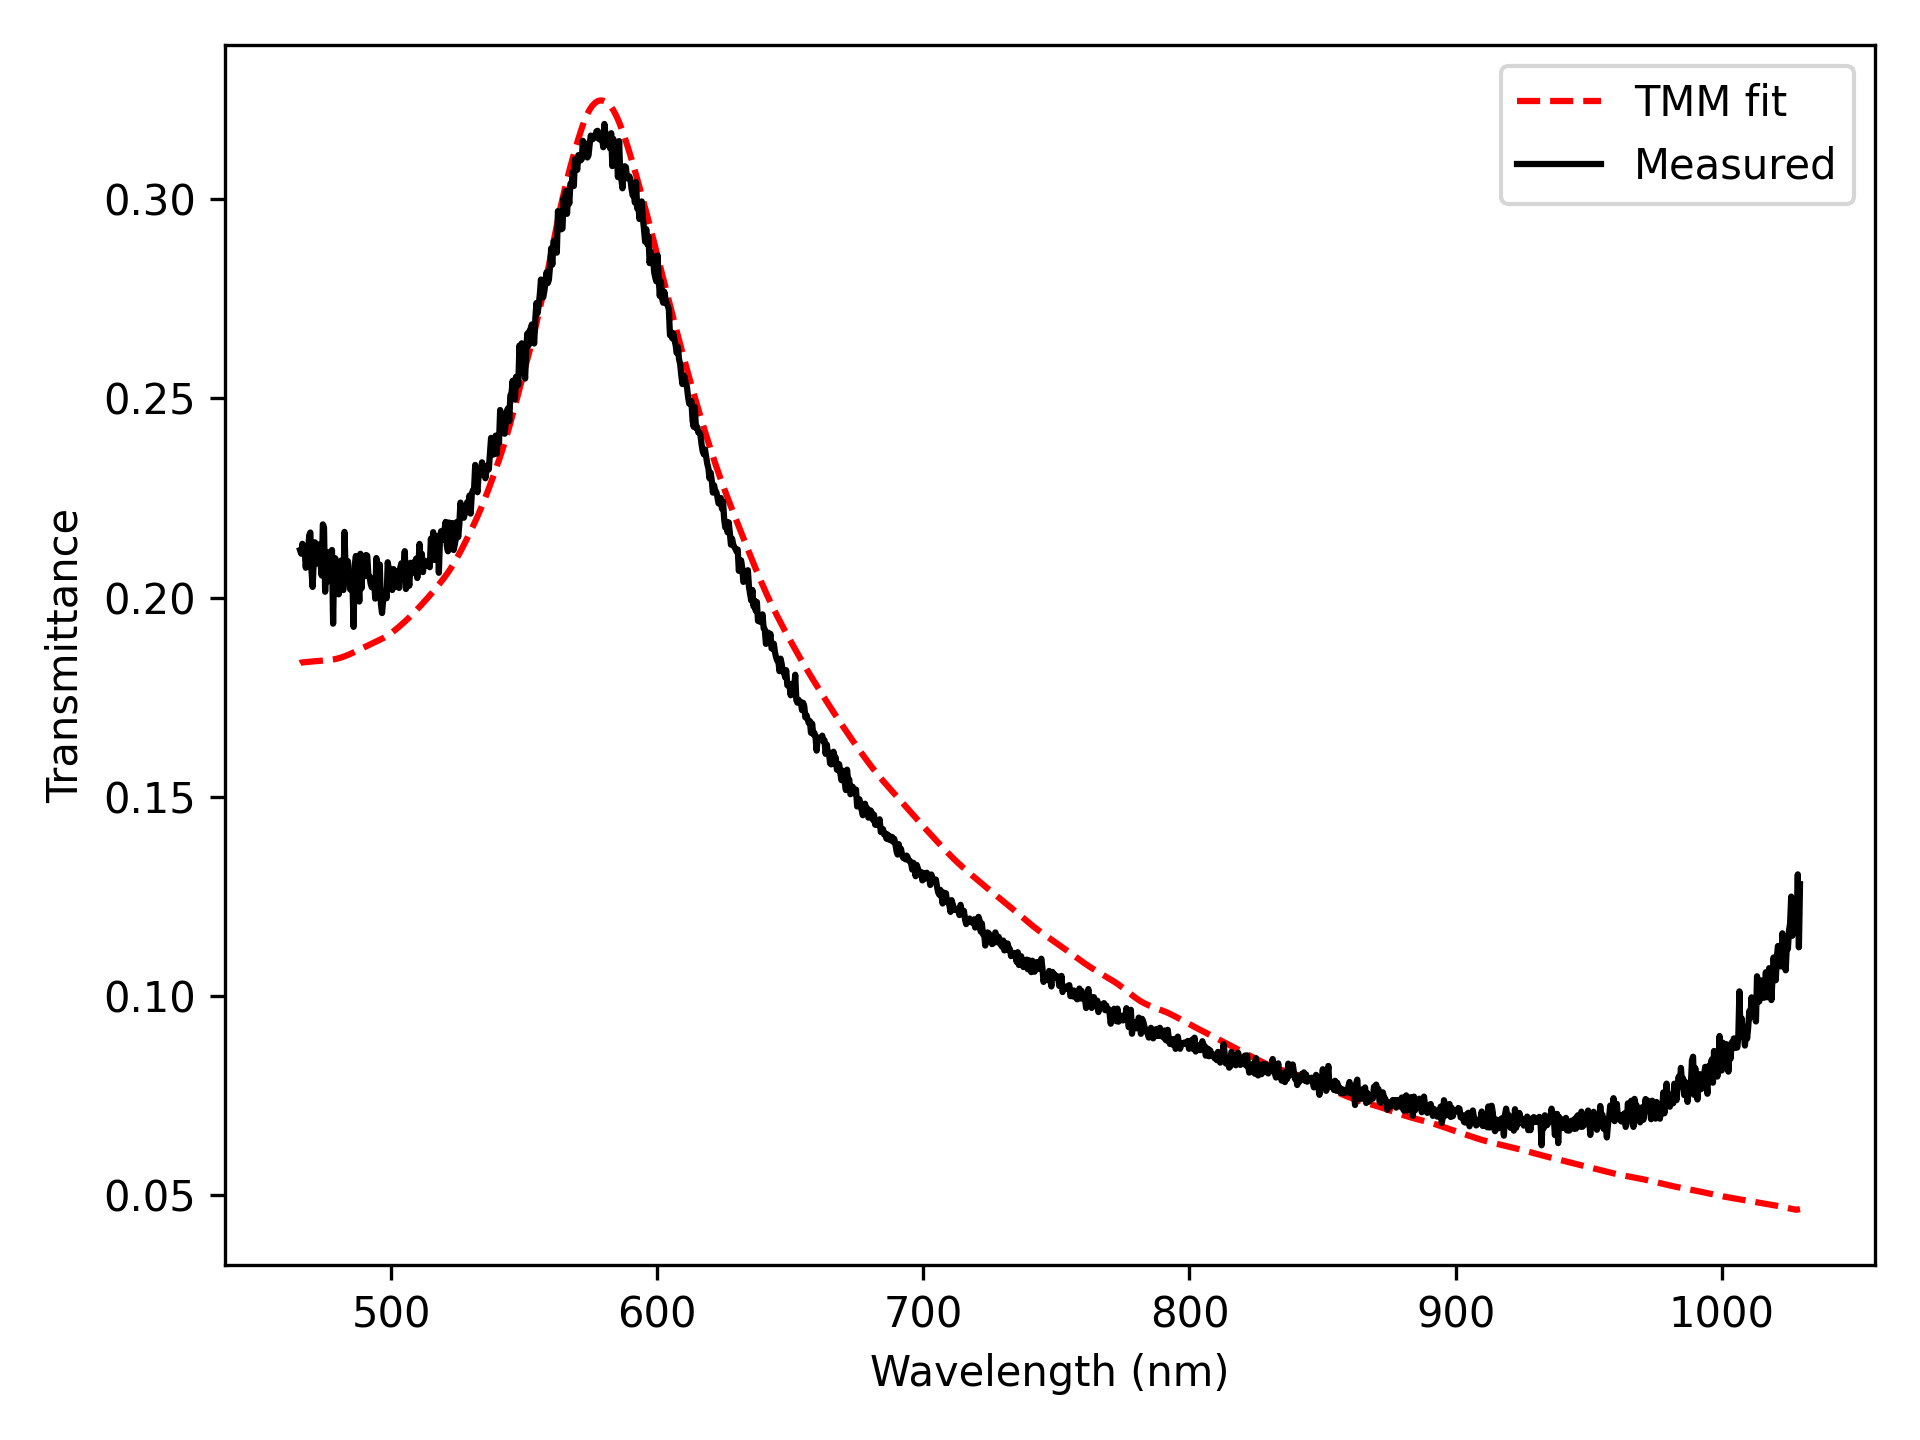
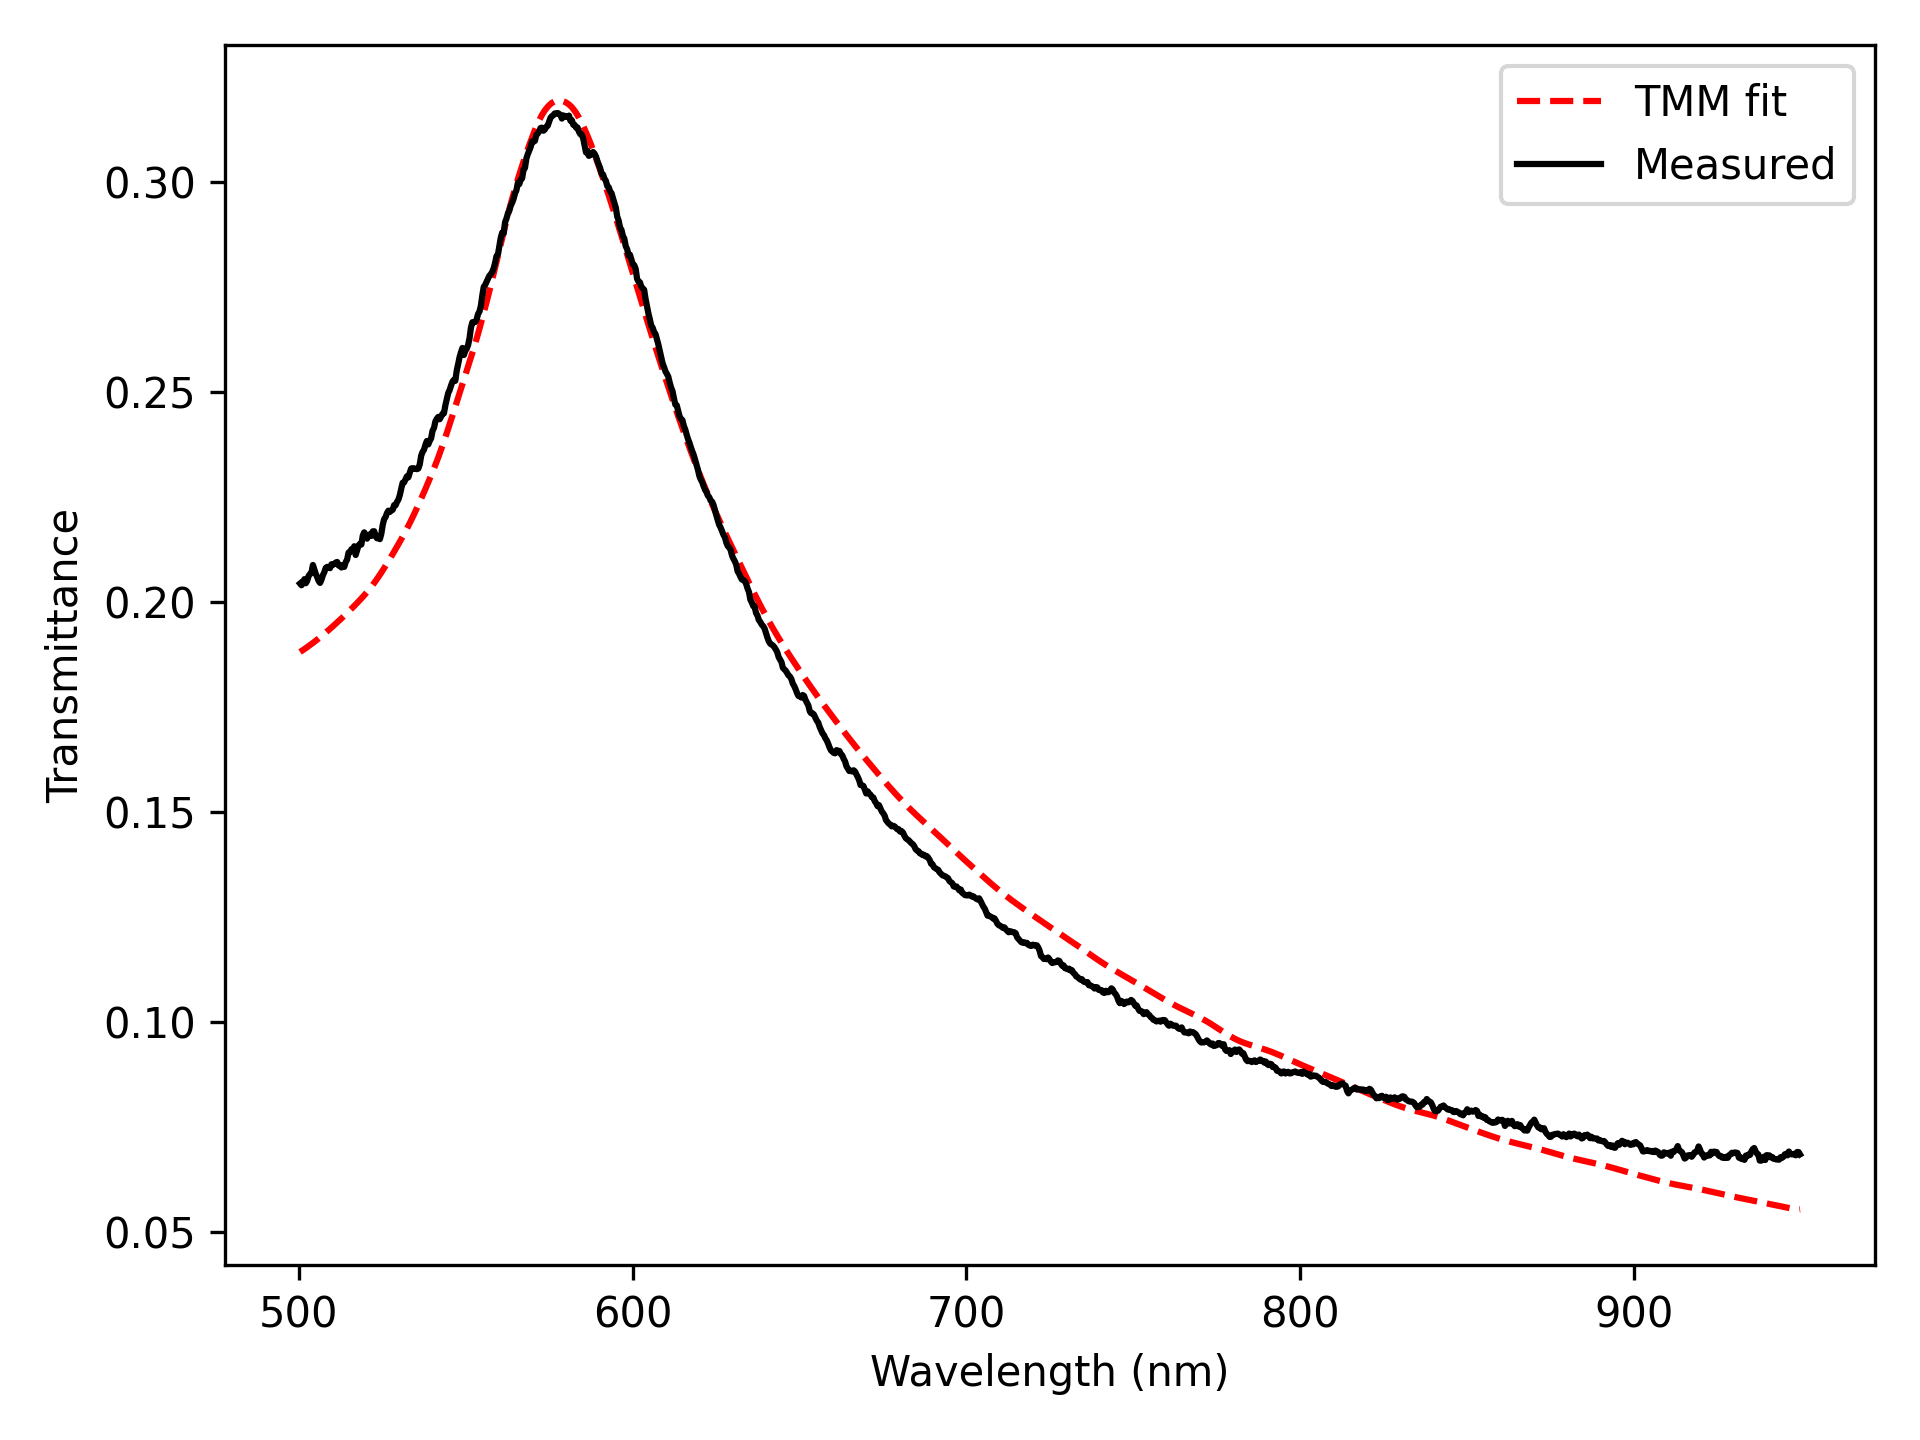
Implemented GPU Support, added smoothing and WL cutouts

diff --git a/Grin-TMM.py b/Grin-TMM.py
@@ -8,6 +8,15 @@ from winspec import SpeFile
 import tmm_fast.gym_multilayerthinfilm as mltf
 from tmm_fast import coh_tmm
 
+#%% ================== Functions =====================
+def moving_average_same(a, n=5):
+    if n <= 1:
+        return a
+    kernel = np.ones(n) / n
+    return np.convolve(a, kernel, mode="same")
+
+
+
 #%% ================= USER SETTINGS =================
 path = str(Path(__file__).parent)
 
@@ -25,8 +34,15 @@ Lamp_file = path + "/Substrate.SPE"
 init_thickness_nm = [22.0, 1.0, 1.0]
 spec_no = 69
 
-wl_min = 900
-wl_max = 400
+# Smoothing
+enable_smoothing = True
+smoothing_window = 5   # must be odd, e.g. 3,5,7
+
+# Wavelength cutout for optimization (nm)
+enable_wl_cut = True
+wl_opt_min = 500.0
+wl_opt_max = 950.0
+
 # Optimization
 n_steps = 300
 learning_rate = 0.5
@@ -34,7 +50,7 @@ learning_rate = 0.5
 # Angular averaging (brightfield, small NA)
 angle_min_deg = 0.0
 angle_max_deg = 1.0
-n_angles = 5
+n_angles = 1
 #===================================================
 
 
@@ -43,12 +59,39 @@ wl_nm = SpeFile(SPE_file).xaxis.astype(np.float64)
 df_intensities = SpeFile(SPE_file).data[:, :, 0]
 lamp_intensities = SpeFile(Lamp_file).data[0, :, 0]
 
+# select device to run on:
+if torch.cuda.is_available():
+    Computation_device = "cuda"
+else:
+    Computation_device = "cpu"
+
+
+# Optional Smoothing
+if enable_smoothing:
+    df_intensities[spec_no,:] = moving_average_same(df_intensities[spec_no,:],smoothing_window)
+    lamp_intensities = moving_average_same(lamp_intensities,smoothing_window)
+
+transmission_data = df_intensities[spec_no, :] / lamp_intensities
+
+#Optional wavelength cut
+if enable_wl_cut:
+    wl_mask = (wl_nm >= wl_opt_min) & (wl_nm <= wl_opt_max)
+    transmission_data = transmission_data[wl_mask]
+    wl_nm = wl_nm[wl_mask]
+
+
+#Create torch vectors
 target_T = torch.tensor(
-    df_intensities[spec_no, :] / lamp_intensities,
-    dtype=torch.float64
+    transmission_data,
+    dtype=torch.float64,
+    device=Computation_device
 )
 
-lambda_nm = torch.tensor(wl_nm, dtype=torch.float64)
+lambda_nm = torch.tensor(
+    wl_nm, 
+    dtype=torch.float64,
+    device=Computation_device
+)
 
 #%% Load dispersive refractive indices
 N_np = mltf.get_N(
@@ -68,24 +111,34 @@ n_stack = np.vstack([
     np.ones_like(wl_nm)
 ])
 
-N_torch = torch.tensor(n_stack, dtype=torch.complex128).unsqueeze(0)
+N_torch = torch.tensor(
+    n_stack, 
+    dtype=torch.complex128, 
+    device = Computation_device
+).unsqueeze(0)
 
 #%% Trainable thickness tensor (nm)
 d_init_nm = torch.tensor(
     [np.inf] + init_thickness_nm + [np.inf],
     dtype=torch.float64,
-    requires_grad=True
+    requires_grad=True,
+    device = Computation_device
 )
 T_torch = d_init_nm.unsqueeze(0)
 
 #%% Angles (radians)
 thetas = torch.deg2rad(
-    torch.linspace(angle_min_deg, angle_max_deg, n_angles, dtype=torch.float64)
+    torch.linspace(angle_min_deg, angle_max_deg, n_angles, dtype=torch.float64, device = Computation_device)
 )
 
 #%% Optimizer and loss
 optimizer = torch.optim.Adam([d_init_nm], lr=learning_rate)
 loss_fn = torch.nn.MSELoss()
+
+#%% Debugging:
+print("Thickness tensor device:", d_init_nm.device)
+print("N tensor device:", N_torch.device)
+print("Lambda device:", lambda_nm.device)
 
 #%% Optimization loop
 for step in range(n_steps):
@@ -98,7 +151,7 @@ for step in range(n_steps):
         T=T_torch,
         Theta=thetas,
         lambda_vacuum=lambda_nm,
-        device="cpu"
+        device=Computation_device
     )
 
     T_sim = result["T"][0].mean(dim=0)
@@ -110,18 +163,23 @@ for step in range(n_steps):
     # Physical constraints
     with torch.no_grad():
         d_init_nm[1:-1].clamp_(1.0, 300.0)
+    
+    if step == 0:
+        print("CUDA available:", torch.cuda.is_available())
+        print("Allocated GPU memory:", torch.cuda.memory_allocated())
 
-    if step % 20 == 0:
+    if step % 100 == 0:
         print(
             f"Step {step:3d} | "
             f"Loss = {loss.item():.4e} | "
-            f"Thicknesses (nm) = {d_init_nm[1:-1].detach().numpy()}"
+            f"Thicknesses (nm) = {d_init_nm[1:-1].detach().cpu().numpy()}"
         )
 
 #%% Final plot
+
 plt.figure()
-plt.plot(wl_nm, T_sim.detach().numpy(), "r--", label="TMM fit")
-plt.plot(wl_nm, target_T.numpy(), "k", label="Measured")
+plt.plot(wl_nm, T_sim.cpu().detach().numpy(), "r--", label="TMM fit")
+plt.plot(wl_nm, target_T.cpu().numpy(), "k", label="Measured")
 plt.xlabel("Wavelength (nm)")
 plt.ylabel("Transmittance")
 plt.legend()
